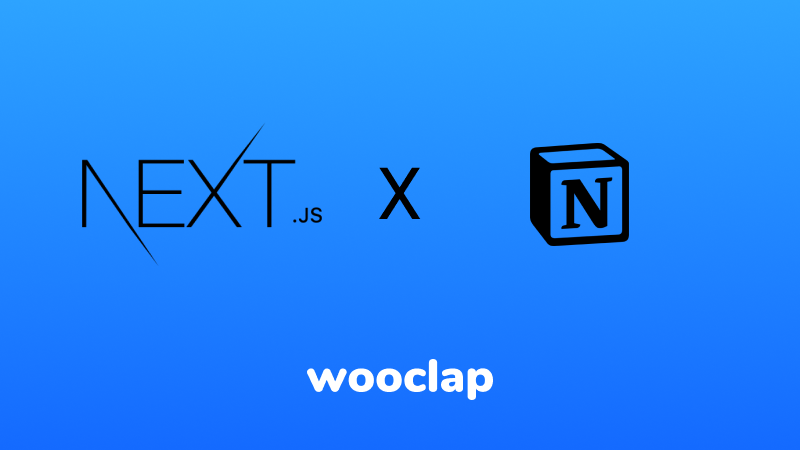
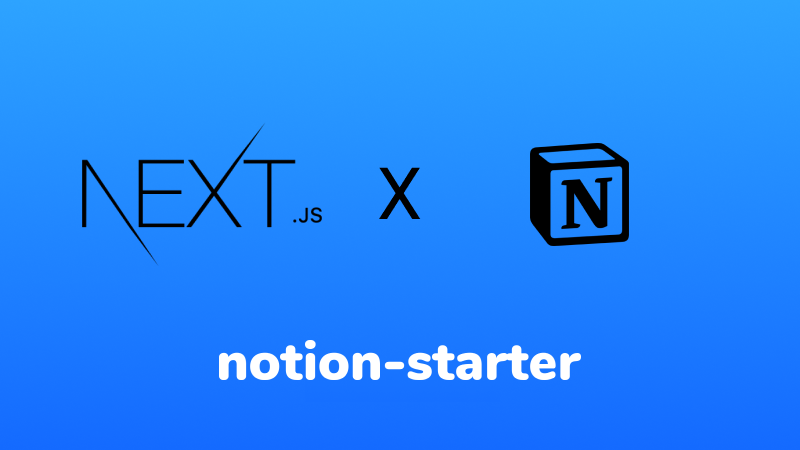
change images

Changed region(s): [[0.25, 0.7467, 0.75, 0.9022]]

diff --git a/README.md b/README.md
@@ -2,7 +2,7 @@
 
 ![HERO](public/hero.png)
 
-[View the live demo](https://blog-wooclap.vercel.app/en/blog) • [Edit in the CMS](https://www.notion.so/arnaudjnn/d0aa40bcd23249c7a772aeaea62abdd0?v=f5d37922782e44fbaa232836e99456df)
+[View the live demo](https://notion-starter.vercel.app/) • [Edit in the CMS](https://www.notion.so/arnaudjnn/d0aa40bcd23249c7a772aeaea62abdd0?v=f5d37922782e44fbaa232836e99456df)
 
 This starter is designed for flexibility. Using it, you'll be able to manage your blog content entirely in Notion, and get a Next app automatically generated. Marketing teams will be able to create new articles without help from developers.
 
